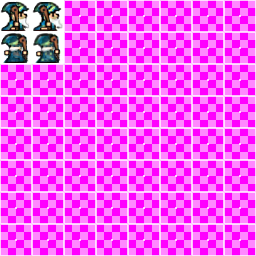
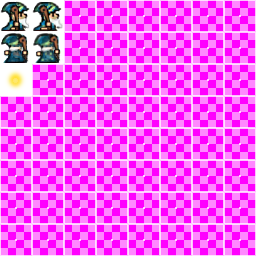
Wizard shoots

Changed region(s): [[0.0, 0.25, 0.125, 0.375]]

diff --git a/Ludum Dare 28/public_html/js/entity.js b/Ludum Dare 28/public_html/js/entity.js
@@ -26,7 +26,13 @@ var Entity = new Class({
         return 0;
     },
 
-    getRenderable: function() {}
+    getRenderable: function() {
+
+    },
+
+    alive: function() {
+        return true;
+    }
 });
 
 var WizardEntity = new Class({
@@ -35,10 +41,17 @@ var WizardEntity = new Class({
     initialize: function(id, x, y, height, width, isWalkable, level){
         this.parent(x,y,height,width,isWalkable);
         this.inputManager = new InputManager();
-        this.renderable = this._createRenderable();
 
-        this.x = x;
-        this.y = y;
+        var wizardAndCursor = this._createRenderable();
+
+        this.group = new THREE.Object3D();
+        this.group.add(wizardAndCursor.wizard);
+        this.group.add(wizardAndCursor.cursor);
+
+        this.group.x = x;
+        this.group.y = y;
+
+        this.cursor = wizardAndCursor.cursor;
 
         this.runMultiplier = 2.5;
         this.speed = 0.10;
@@ -48,7 +61,9 @@ var WizardEntity = new Class({
         this.currentSpeed = 0.0;
 
         this.fireCooldown = 0;
-        this.maxCooldown = 30;
+        this.maxCooldown = 15;
+
+        this.projectileSpeed = 0.5;
     },
 
     update: function(level) {
@@ -58,10 +73,18 @@ var WizardEntity = new Class({
 
         var dirX = 0;
         var dirY = 0;
+
+
         
         var run = false;
 
         var self = this;
+
+        var pos = self.inputManager.getCursorPosition();
+        var vector = new THREE.Vector2(pos.x - self.group.position.x, pos.y - self.group.position.y);
+
+        vector.normalize();
+
         Array.each(keyPressed, function(key) {
             if(key === 'w'){
                 dirY += 1;
@@ -85,7 +108,10 @@ var WizardEntity = new Class({
 
             if(key === 'spacebar' && self.fireCooldown == 0) {
                 console.log("spaaace");
-                self.level.addEntity(new Projectile("", 0, 0, 1.0, 1.0, true, this.level, 0.05, 0.05));
+
+                var distance = Math.sqrt(Math.pow((self.group.position.x + pos.x), 2) + Math.pow((self.group.position.x + pos.x), 2));
+
+                self.level.addEntity(new Projectile("", self.group.position.x, self.group.position.y, 1.0, 1.0, true, self.level, vector.x * self.projectileSpeed, vector.y * self.projectileSpeed));
                 self.fireCooldown = self.maxCooldown;
             }
         });
@@ -99,30 +125,47 @@ var WizardEntity = new Class({
 
         this.currentSpeed = (this.currentSpeed + speedy) / 2.0;
 
-        this.x += (dirX * this.currentSpeed);
-        this.y += (dirY * this.currentSpeed);
+        this.group.position.x += (dirX * this.currentSpeed);
+        this.group.position.y += (dirY * this.currentSpeed);
 
-        this.renderable.position.x = this.x;
-        this.renderable.position.y = this.y;
+        var xrot = Math.acos(vector.x);
+
+        this.cursor.rotation.z = (vector.y <= 0 ? Math.PI * 2 -  xrot : xrot) - 0.25 * Math.PI;
+
 
         if(this.fireCooldown > 0) this.fireCooldown--;
     },
 
     _createRenderable: function() {
-        var plane = new THREE.PlaneGeometry(1,1);
-        var material = entitySheet.getMaterial();
+        var wizardGeo = new THREE.PlaneGeometry(1,1);
+        var wizardMaterial = entitySheet.getMaterial();
 
         var uv = tileSheet.getUvsFromIndex(this.getSpriteIndexX(), this.getSpriteIndexY());
 
-        plane.faceVertexUvs = [[]];
-        plane.faceVertexUvs[0].push([uv[1], uv[0], uv[2]]);
-        plane.faceVertexUvs[0].push([uv[0].clone(), uv[3], uv[2].clone()]);
+        wizardGeo.faceVertexUvs = [[]];
+        wizardGeo.faceVertexUvs[0].push([uv[1], uv[0], uv[2]]);
+        wizardGeo.faceVertexUvs[0].push([uv[0].clone(), uv[3], uv[2].clone()]);
 
-        return new THREE.Mesh(plane, material);
+        var wizardMesh = new THREE.Mesh(wizardGeo, wizardMaterial);
+
+        var cursorGeo = new THREE.PlaneGeometry(1,1);
+
+        cursorGeo.applyMatrix(new THREE.Matrix4().makeTranslation(0.5, 0.5, 0.0));
+
+        var cursorTexture = new THREE.ImageUtils.loadTexture("img/game/ui/cursor_weapon.png");
+        var cursorMat = new THREE.MeshBasicMaterial({map:cursorTexture, transparent:true});
+
+        var cursorMesh = new THREE.Mesh(cursorGeo, cursorMat);
+
+        return { wizard: wizardMesh, cursor: cursorMesh } ;
     },
 
     getRenderable: function() {
-        return this.renderable;
+        return this.group;
+    },
+
+    alive: function() {
+        return true;
     }
 });
 
@@ -133,13 +176,27 @@ var Projectile = new Class({
         this.parent(x,y,height,width,isWalkable, level);
 
         this.mesh = this._createRenderable();
+        this.mesh.position.x = x;
+        this.mesh.position.y = y;
 
         this.xSpeed = xSpeed;
         this.ySpeed = ySpeed;
+
+        this.age = 0;
+        this.maxAge = 20;
     },
 
     _createRenderable: function() {
-        return new THREE.Mesh(new THREE.PlaneGeometry(1,1), entitySheet.getMaterial());
+        var geo = new THREE.PlaneGeometry(1,1); 
+
+        var uv = entitySheet.getUvsFromIndex(0, 2);
+        geo.faceVertexUvs = [[]];
+        geo.faceVertexUvs[0].push([uv[1], uv[0], uv[2]]);
+        geo.faceVertexUvs[0].push([uv[0].clone(), uv[3], uv[2].clone()]);
+        
+        var mesh = new THREE.Mesh(geo, entitySheet.getMaterial());
+
+        return mesh;
     },
 
     getRenderable: function() {
@@ -147,8 +204,17 @@ var Projectile = new Class({
     },
 
     update: function() {
-        this.mesh.position.x += this.xSpeed;
-        this.mesh.position.y += this.ySpeed;
+        if(this.age < this.maxAge) {
+            this.mesh.position.x += this.xSpeed;
+            this.mesh.position.y += this.ySpeed;
+            this.age++;
+        }
+
+        
+    },
+
+    alive: function() {
+        return this.age < this.maxAge;
     }
 });
     

diff --git a/Ludum Dare 28/public_html/js/statemanager.js b/Ludum Dare 28/public_html/js/statemanager.js
@@ -43,7 +43,7 @@ var GameState = new Class({
         // TODO: doe hier eens niet 800 bij 600
         this.camera =  new THREE.PerspectiveCamera(45, 800 / 600, 1, 100);
 
-        this.camera.position.set(0, -10, 22.5);
+        this.camera.position.set(0, 0, 22.5);
         //this.camera.lookAt(this.scene.position);
         this.scene.add(this.camera);
 
@@ -63,15 +63,12 @@ var GameState = new Class({
     addChunksToScene: function(level) {
         var plane = new THREE.PlaneGeometry(level.getLevelWidth(), level.getLevelHeight(), level.getLevelWidth(), level.getLevelHeight()); 
 
-        var level = level.getLevel();
+        var levelArray = level.getLevel();
         plane.faceVertexUvs = [[]];
 
-        for(var y = 0; y < level.length; y++){
-            for(var x = 0; x < level[y].length; x++){
-                var tileType = level[y][x];
-
-                console.log(tileType);
-
+        for(var y = 0; y < levelArray.length; y++){
+            for(var x = 0; x < levelArray[y].length; x++){
+                var tileType = levelArray[y][x];
                 var uv = tileSheet.getUvsFromIndex(tileType.x, tileType.y);
 
                 plane.faceVertexUvs[0].push([uv[1], uv[0], uv[2]]);
@@ -79,6 +76,8 @@ var GameState = new Class({
                 plane.faceVertexUvs[0].push([uv[0].clone(), uv[3], uv[2].clone()]);                
             }
         }
+
+        plane.applyMatrix(new THREE.Matrix4().makeTranslation(level.getLevelWidth() / 2.0, -1 * level.getLevelHeight() / 2.0, 0.0));
         var mesh = new THREE.Mesh(plane, tileSheet.getMaterial());
 
         console.log(mesh);
@@ -101,13 +100,38 @@ var GameState = new Class({
             }
         });
     },
+
+    _cleanupScene: function() {
+        var toBeRemoved = new Array();
+        var entities = this.level.getEntities();
+
+        var self = this;
+
+        Array.each(entities, function(entity) {
+            if(!entity.alive() && self.entitiesOnScene.contains(entity)){
+                self.entitiesOnScene.erase(entity);
+
+                self.scene.remove(entity.getRenderable());
+
+                console.log("deze entity stierf");
+
+                toBeRemoved.push(entity);
+            }
+        });
+
+        Array.each(toBeRemoved, function(entity) {
+            entities.erase(entity);
+        });            
+    },
+
     render: function(renderer) {
-        this.camera.position.set(this.player.x, this.player.y, 22.5);
+        this.camera.position.set(this.player.getRenderable().position.x, this.player.getRenderable().position.y, 22.5);
         renderer.render(this.scene, this.camera);
     },
     update: function() {
         this.level.update();
         this._addEntitiesToScene();
+        this._cleanupScene();
     }
 });
 

diff --git a/Ludum Dare 28/public_html/js/tiletypes.js b/Ludum Dare 28/public_html/js/tiletypes.js
@@ -63,11 +63,11 @@ var tileTypes = {
         'y': 1
     },
     '0000ff': {
-        'type': 'test_tile',
+        'type': 'water',
         'wall': true,
         'spriteSheet': 'lalalal',
-        'x': 2,
-        'y': 0
+        'x': 1,
+        'y': 4
     },
     'fdffcc': {
         'type': 'sand',
